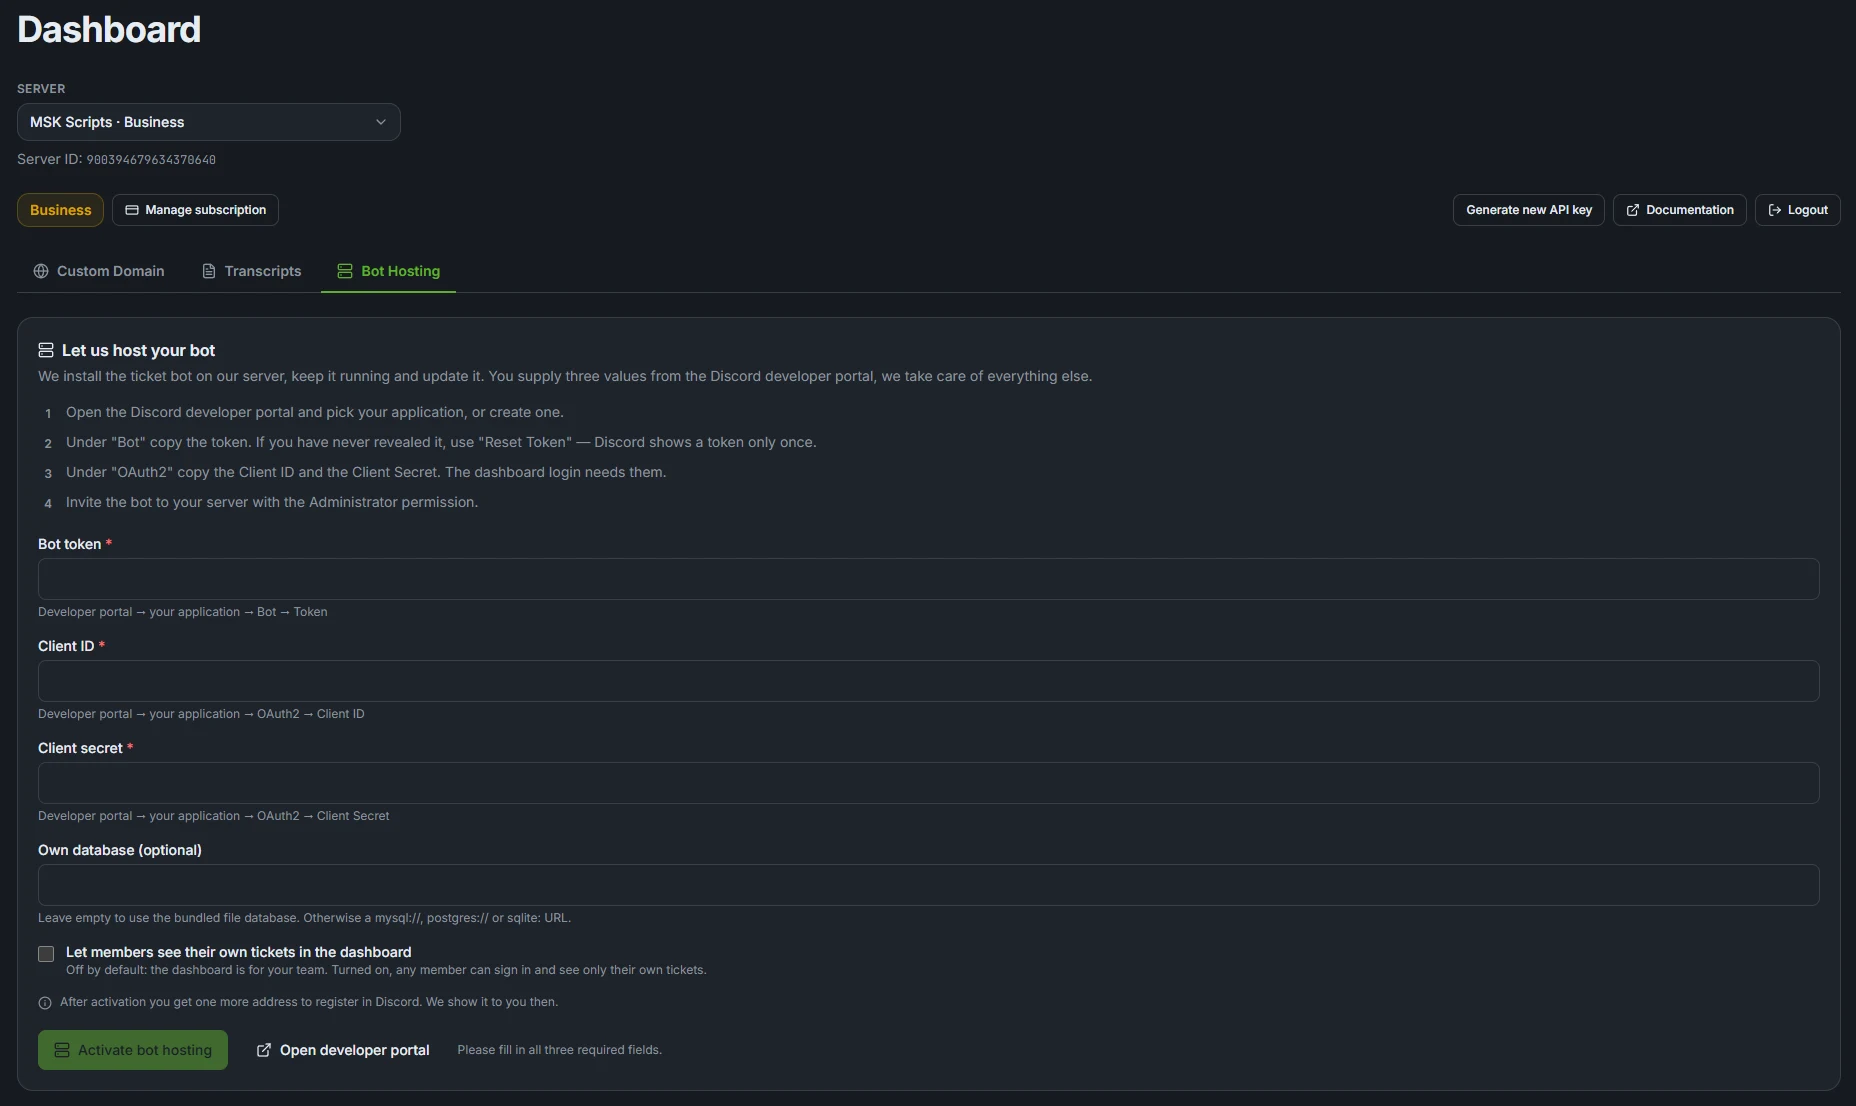
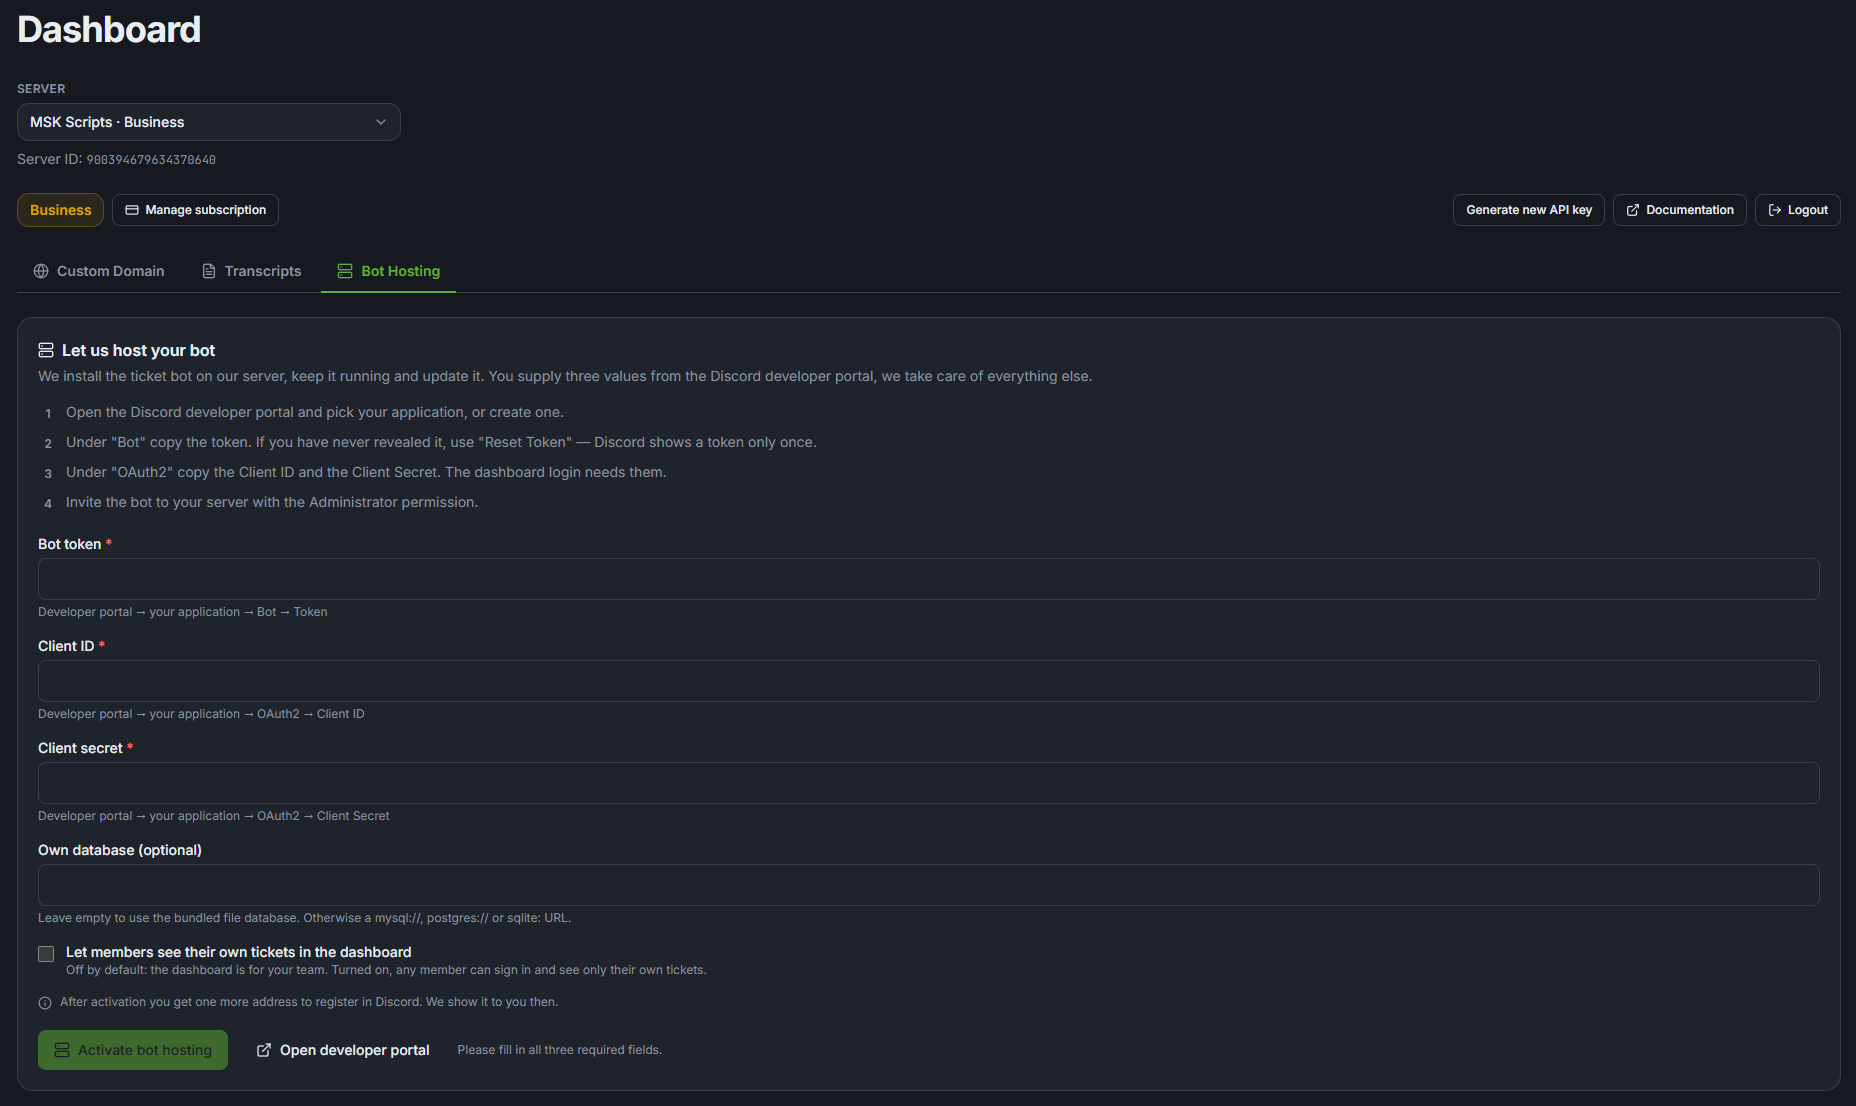
Stop compressing the screenshot twice
The picture was blurry, and two of my own mistakes compounded to make it so.

The source is 1856 px wide and sat in a container up to 1920 px. On a HiDPI
screen that box wants 3712 real pixels, so the browser upscaled 2x. Measuring
it makes it obvious: w=1920, w=2048 and w=3840 all return the same 68 KB,
because the optimizer cannot invent detail above the source width. It is now
capped at 1200 px. My sizes attribute made it worse by declaring 1100 px for a
box that was nearly 1856, so the browser picked a variant smaller still.

On top of that the file went through two lossy passes: my WebP at quality 88
and then the optimizer at 75. A UI screenshot is the worst possible input for
that, since sharp text edges are exactly what lossy encoding destroys. Measured
on this image, lossless WebP is 46 KB against 67 KB at quality 88, so the lossy
version cost bytes AND legibility. It is lossless now and marked unoptimized so
nothing re-encodes it.

diff --git a/components/bots/TicketBotLanding.tsx b/components/bots/TicketBotLanding.tsx
@@ -354,16 +354,24 @@ export function TicketBotLanding({ lang }: { lang: Lang }) {
 
           {/* Below the two columns, not beside them: this is the proof for the
               sentence above, that hosting is a form you fill in yourself, and a
-              form does not read at half width. A plain src with width/height
-              rather than a static import, so a missing file is one broken image
-              instead of a failed build. */}
-          <figure className="mt-10 overflow-hidden rounded-xl border border-[var(--color-border)] bg-[var(--color-card)]">
+              form does not read at half width.
+
+              `unoptimized` on purpose. The file is already a LOSSLESS WebP, and
+              a UI screenshot is the worst possible input for lossy encoding:
+              the sharp text edges are exactly what it destroys. Measured on this
+              image, lossless is 46 KB while quality 88 is 67 KB, so the lossy
+              pass costs bytes AND legibility. Letting the optimizer re-encode it
+              would add a second lossy step on top of that for nothing.
+
+              Capped at 1200 px because the source is 1856 px wide. Wider, and a
+              HiDPI screen asks for more pixels than exist and upscales. */}
+          <figure className="mx-auto mt-10 max-w-[1200px] overflow-hidden rounded-xl border border-[var(--color-border)] bg-[var(--color-card)]">
             <Image
               src="/ticketbot-hosting.webp"
               alt={t.hostedShotAlt}
               width={1856}
               height={1106}
-              sizes="(max-width: 1024px) 100vw, 1100px"
+              unoptimized
               className="h-auto w-full"
             />
           </figure>
